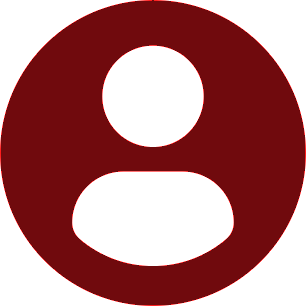
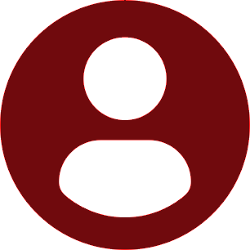
installed django-resized library to resize images, added pckage settings to settings.py

diff --git a/ratemyrig/settings.py b/ratemyrig/settings.py
@@ -46,6 +46,7 @@ INSTALLED_APPS = [
     'users.apps.UsersConfig',
     # third party apps
     'crispy_forms',
+    'django_resized',
 
 ]
 
@@ -134,12 +135,6 @@ STATIC_URL = '/static/'
 # top level direcotry for base.html CSS and SASS
 STATICFILES_DIRS = (os.path.join(BASE_DIR, "static"), )
 
-
-# CRISPP_FORM - by default crispy_forms defaults to bootstrap 2
-#               since that's wayy too old , we're change it to bootstrap 4
-CRISPY_TEMPLATE_PACK = 'bootstrap4'
-
-
 # NOTE! when using built in login class base view by django
 # after loggin in - it will automatically redirects to "accounts/profile"
 # this will overwrite that feature and we get to redirect to a given url!
@@ -158,3 +153,12 @@ MEDIA_ROOT = os.path.join(BASE_DIR, 'media')    # BASE_DIR - is the project's ba
 # MEDIA_URL - is the public url of MEDIA_ROOT  
 # that's how we access the media through the browser
 MEDIA_URL = '/media/' 
+
+# ----------------------- THIRD PARTY APP SETTINGS ---------------------------
+# CRISPP_FORM - by default crispy_forms defaults to bootstrap 2
+#               since that's wayy too old , we're change it to bootstrap 4
+CRISPY_TEMPLATE_PACK = 'bootstrap4'
+
+# django_resized settings to force the format of the resized image 
+DJANGORESIZED_DEFAULT_FORCE_FORMAT = 'PNG'
+DJANGORESIZED_DEFAULT_FORMAT_EXTENSIONS = {'PNG': ".png"}

diff --git a/users/models.py b/users/models.py
@@ -1,20 +1,22 @@
 from django.db import models
 from django.contrib.auth.models import User
-
+# third party package to resize images
+from django_resized import ResizedImageField
 
 
 
 
 class Profile(models.Model):
-    """ expanding on User class to eb able to add profile pictures """
+    """ expanding on User class to be able to add profile pictures """
     
     # one-to-one relationship between user and the profile - a user has only one profile and a profile belongs to only one user
     # for one-to-one relationship for user "models.OneToOneField" is used
-    # on_delete=models.CASCADE:
-    #        means that if the user was deleted, delete his/her profile with it
-    #        BUT, if the post was deleted, leave user as is
+    # on_delete=models.CASCADE  - means that if the user was deleted, delete his/her profile with it
     user = models.OneToOneField(User, on_delete=models.CASCADE)
-    image = models.ImageField(default='defaults/default_profile_pic.png',upload_to='profile_pics')
+    image = ResizedImageField(default='defaults/default_profile_pic.png',upload_to='profile_pics', size=[250, 250])
+    # image = models.ImageField(default='defaults/default_profile_pic.png',upload_to='profile_pics')
+    
     
     def __str__(self):
         return "{}'s Profile".format(self.user.username)
+

diff --git a/users/views.py b/users/views.py
@@ -5,8 +5,9 @@ from .forms import UserRegisterForm, UserUpdateFrom, ProfileUpdateFrom
 from django.contrib.auth.decorators import login_required
 from django.contrib.auth.models import User
 
-# All types of messages
-# messages.debug, messages.info, messages.success, messages.warning, messages.error
+
+# All types of messages -  messages.debug, messages.info, messages.success, messages.warning, messages.error
+
 
 def register_original(request):
     """ view function that uses django's "UserCreationForm" class to
@@ -40,7 +41,7 @@ def register(request):
 
 @login_required
 def profile(request):
-    """ view to display user's profile  """
+    """ view to display currenly logged in user's profile  """
     
     # cant pass in User in here (instance=User) becuase User the entire OBJECT MODEL
     # if we do "<django.db.models.query_utils.DeferredAttribute object at 0x7f08da4159e8>" will be displayed in the form fields
